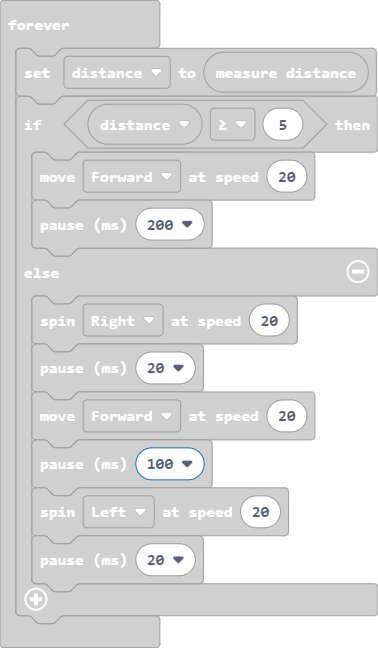
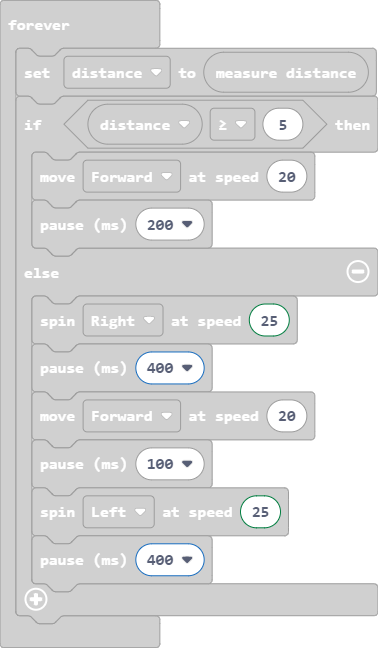
calibrated turning

diff --git a/main.ts b/main.ts
@@ -8,11 +8,11 @@ basic.forever(function () {
         Kitronik_Move_Motor.move(Kitronik_Move_Motor.DriveDirections.Forward, 20)
         basic.pause(200)
     } else {
-        Kitronik_Move_Motor.spin(Kitronik_Move_Motor.SpinDirections.Right, 20)
-        basic.pause(20)
+        Kitronik_Move_Motor.spin(Kitronik_Move_Motor.SpinDirections.Right, 25)
+        basic.pause(400)
         Kitronik_Move_Motor.move(Kitronik_Move_Motor.DriveDirections.Forward, 20)
         basic.pause(100)
-        Kitronik_Move_Motor.spin(Kitronik_Move_Motor.SpinDirections.Left, 20)
-        basic.pause(20)
+        Kitronik_Move_Motor.spin(Kitronik_Move_Motor.SpinDirections.Left, 25)
+        basic.pause(400)
     }
 })
